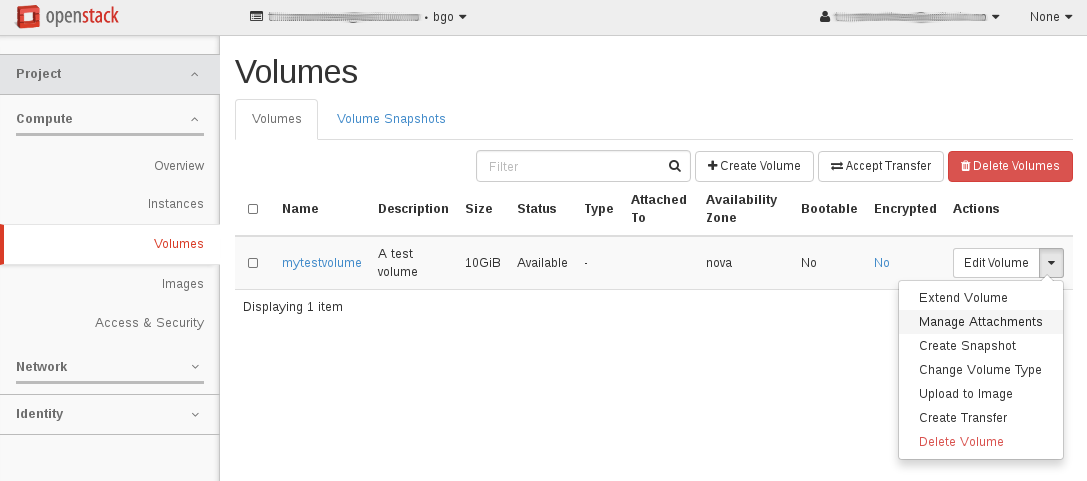
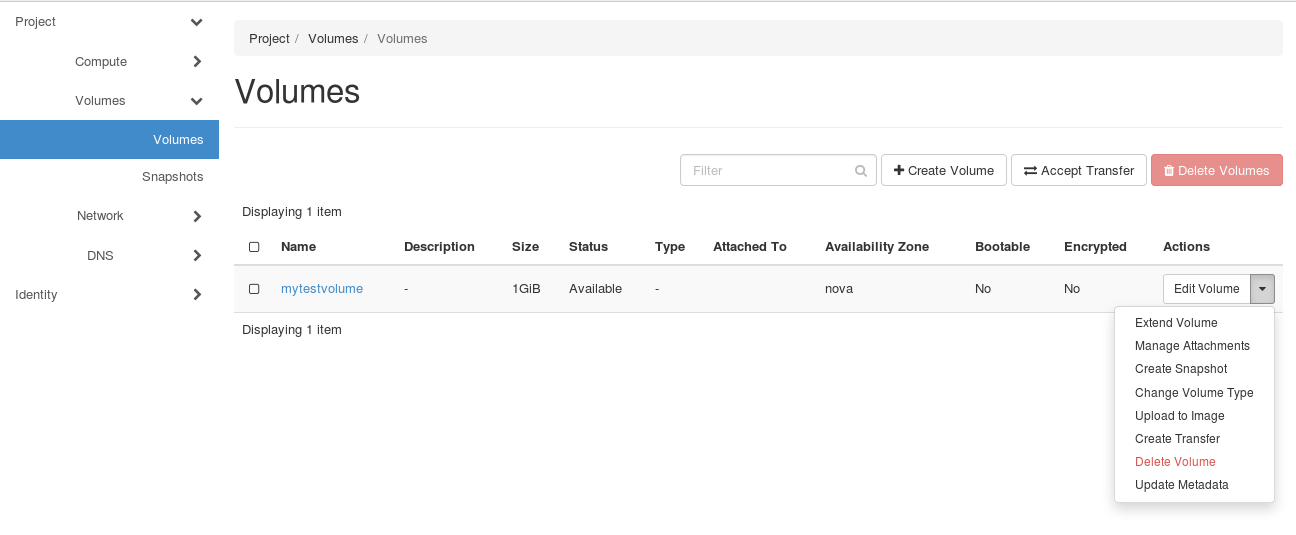
Updated pike/volume

diff --git a/docs/manage-volumes.rst b/docs/manage-volumes.rst
@@ -17,11 +17,11 @@ time. You can also create a snapshot from or delete a volume.
 Create a volume
 ---------------
 
-In the dashboard, select **Volumes** in the **Compute** tab:
+In the dashboard, select **Volumes** in the **Volumes** tab:
 
 .. image:: images/dashboard-volumes-01.png
    :align: center
-   :alt: Dashboard - Compute -> Volumes
+   :alt: Dashboard - Volumes -> Volumes
 
 Click on ``Create Volume``, and the following window appears:
 
@@ -54,7 +54,7 @@ Attach a volume to a virtual machine
 After creating one or more volumes, you can attach them to virtual
 machines (instances). A volume is a block storage device, and can only
 be attached to one virtual machine at a time. In the **Volumes** tab
-under **Compute**, select *Manage Attachments* from the dropdown menu:
+under **Volumes**, select *Manage Attachments* from the dropdown menu:
 
 .. image:: images/dashboard-attach-volume-01.png
    :align: center
@@ -109,8 +109,7 @@ Detach a volume from a virtual machine
 --------------------------------------
 
 In order to detach a volume from a virtual machine (instance),
-select *Manage Attachments* from the dropdown menu in the **Volumes** tab
-under **Compute**:
+select *Manage Attachments* from the dropdown menu in the **Volumes**:
 
 .. image:: images/dashboard-detach-volume-01.png
    :align: center
@@ -135,8 +134,7 @@ The volume is now detached.
 Delete a volume
 ---------------
 
-Deleting a volume is pretty straightforward. In the **Volumes** tab
-under **Compute**, select the appropriate check boxes for the volumes
+Deleting a volume is pretty straightforward. In the **Volumes**, select the appropriate check boxes for the volumes
 that you want to delete, and click ``Delete Volumes``:
 
 .. image:: images/dashboard-delete-volume-01.png
